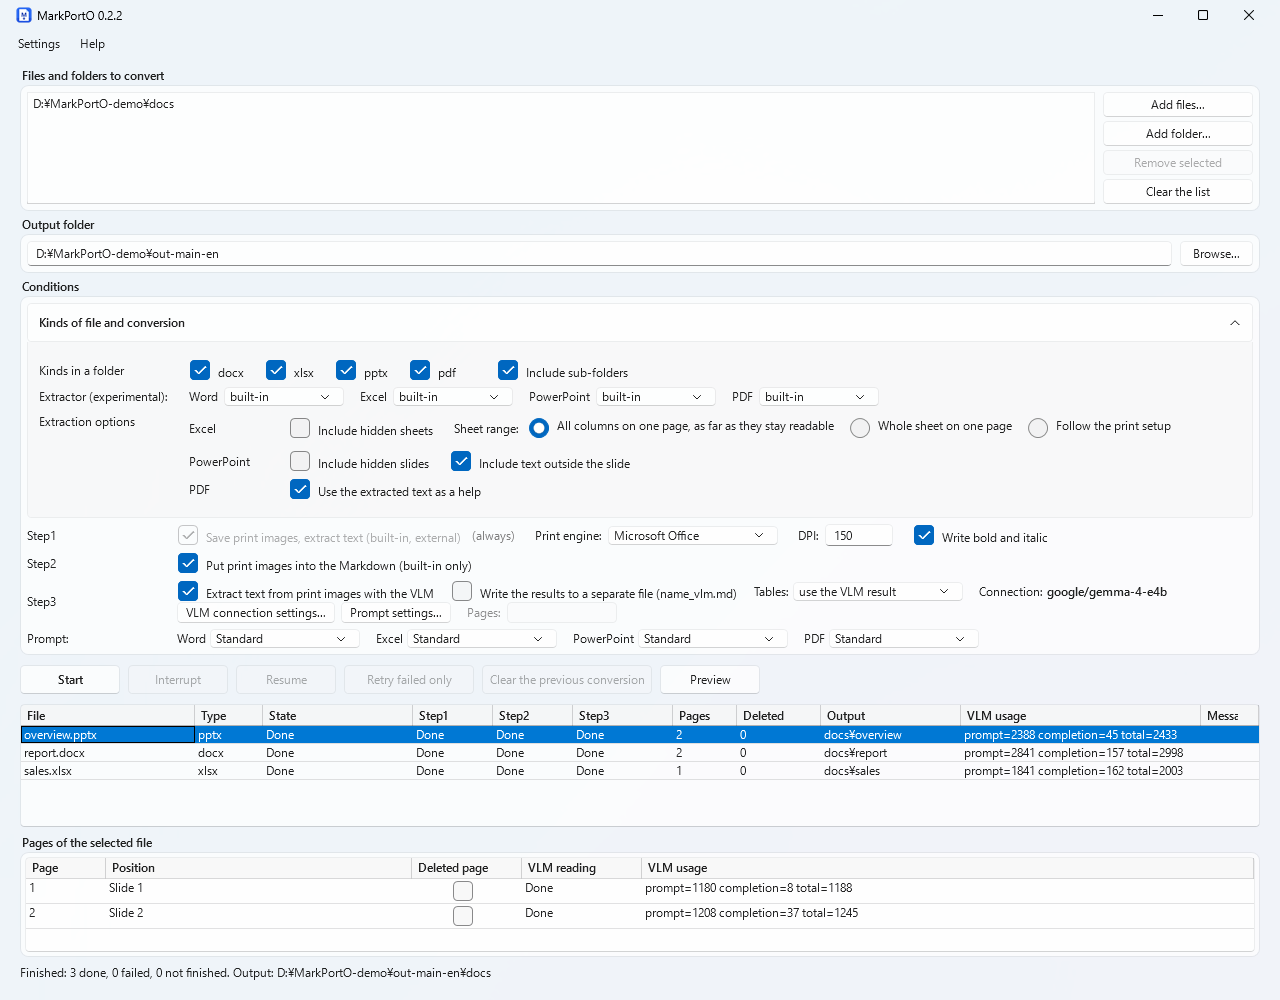
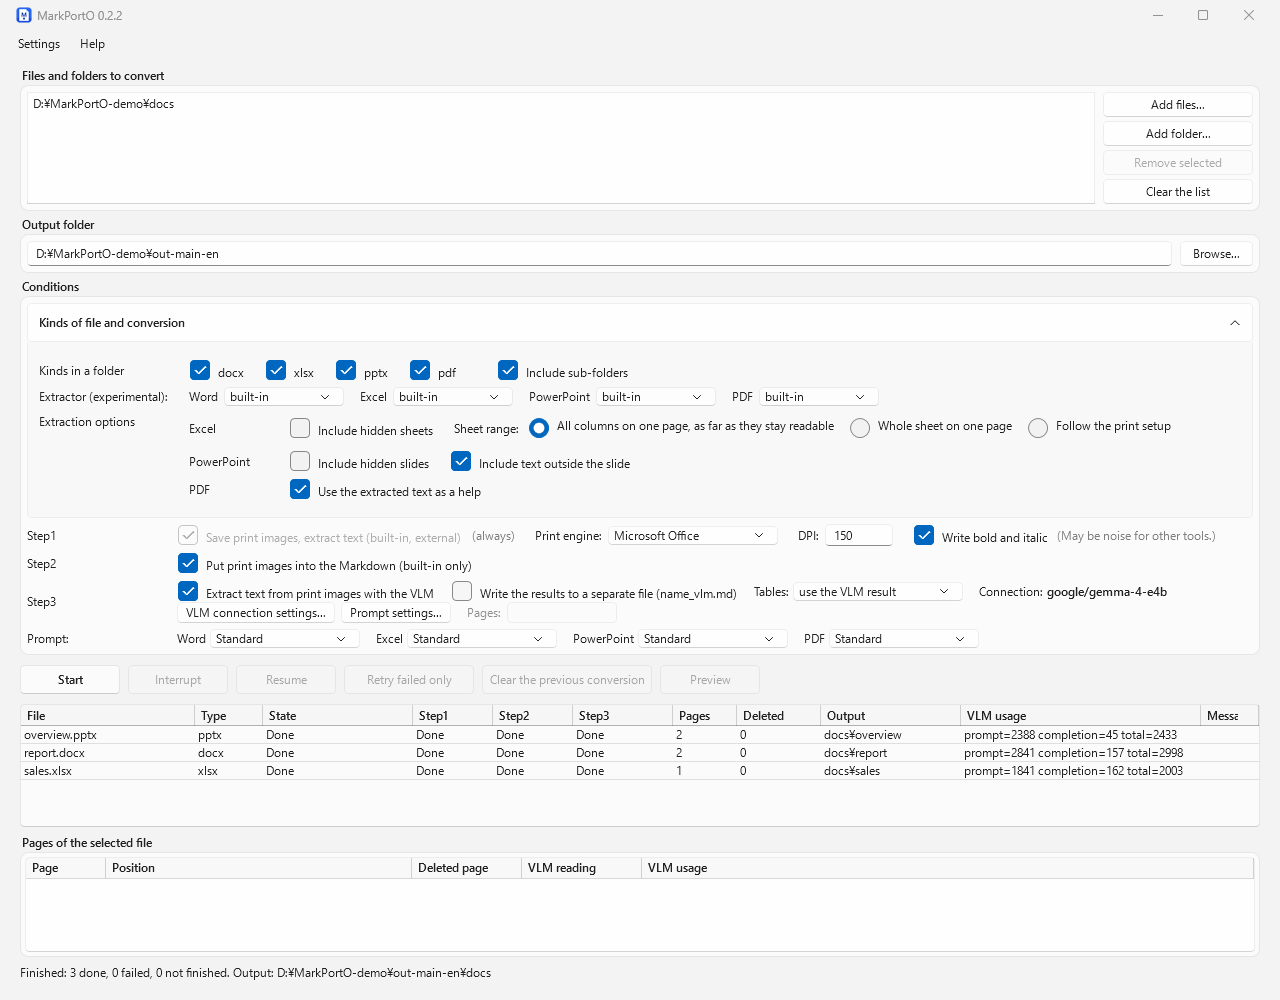
feat: a note beside "bold and italic" (the marks can be noise for other tools), and the same in its tip; the screenshots of the main window

diff --git a/src/MarkPortO.App/Resources/Strings.ja.xaml b/src/MarkPortO.App/Resources/Strings.ja.xaml
@@ -57,7 +57,8 @@
   <sys:String x:Key="Main_Cond_Fold">対象と変換</sys:String>
   <sys:String x:Key="Main_Cond_FoldTip">種類・サブフォルダ・変換エンジン・DPI などの条件を、たたんだり開いたりします。たたむと、いまの選択を1行で見せます。Step の行は、いつも見えます。</sys:String>
   <sys:String x:Key="Main_Cond_Emphasis">太字・斜体を書く</sys:String>
-  <sys:String x:Key="Main_Cond_EmphasisTip">文中の太字を ** で、斜体を * で囲んで書きます(Word・PowerPoint・Excel)。段落(セル)の全体が太字(斜体)のもの、見出し、スライドのタイトルには付けません。</sys:String>
+  <sys:String x:Key="Main_Cond_EmphasisNote">（他のツールで、ノイズになる場合があります）</sys:String>
+  <sys:String x:Key="Main_Cond_EmphasisTip">文中の太字を ** で、斜体を * で囲んで書きます(Word・PowerPoint・Excel)。段落(セル)の全体が太字(斜体)のもの、見出し、スライドのタイトルには付けません。知識グラフを作るツールなど、他のツールに Markdown を渡すときは、** や * がノイズになることがあります。</sys:String>
   <sys:String x:Key="Main_Cond_OffSlide">スライド外の文字を含める</sys:String>
   <sys:String x:Key="Main_Cond_OffSlideTip">PowerPoint: スライドの外に置いたシェイプ(メモ)の文字を、「Off-slide」の引用として書きます。スライドの画像には写りません。</sys:String>
   <sys:String x:Key="Main_Cond_Engine">印刷エンジン:</sys:String>

diff --git a/src/MarkPortO.App/Resources/Strings.en.xaml b/src/MarkPortO.App/Resources/Strings.en.xaml
@@ -57,7 +57,8 @@
   <sys:String x:Key="Main_Cond_Fold">Kinds of file and conversion</sys:String>
   <sys:String x:Key="Main_Cond_FoldTip">Fold or open the kinds of file, the sub-folders, the engine, the DPI and so on. Folded, one line shows what is chosen. The steps are always shown.</sys:String>
   <sys:String x:Key="Main_Cond_Emphasis">Write bold and italic</sys:String>
-  <sys:String x:Key="Main_Cond_EmphasisTip">Bold text in a line is written between ** and italic text between * (Word, PowerPoint, Excel). A paragraph (a cell) that is all in bold (italic), a heading and the title of a slide are not marked.</sys:String>
+  <sys:String x:Key="Main_Cond_EmphasisNote">(May be noise for other tools.)</sys:String>
+  <sys:String x:Key="Main_Cond_EmphasisTip">Bold text in a line is written between ** and italic text between * (Word, PowerPoint, Excel). A paragraph (a cell) that is all in bold (italic), a heading and the title of a slide are not marked. When the Markdown goes to other tools, such as one that builds a knowledge graph, the ** and * marks can be noise.</sys:String>
   <sys:String x:Key="Main_Cond_OffSlide">Include text outside the slide</sys:String>
   <sys:String x:Key="Main_Cond_OffSlideTip">PowerPoint: the text of the shapes that lie outside the slide (memos on the pasteboard) is written as a quote "Off-slide". They are not in the image of the slide.</sys:String>
   <sys:String x:Key="Main_Cond_Engine">Print engine:</sys:String>

diff --git a/src/MarkPortO.App/MainWindow.xaml b/src/MarkPortO.App/MainWindow.xaml
@@ -220,6 +220,7 @@
               <TextBlock Text="{DynamicResource Main_Cond_Dpi}" VerticalAlignment="Center" Margin="0,0,6,0" />
               <TextBox x:Name="DpiBox" Text="{Binding DpiText, UpdateSourceTrigger=LostFocus}" Width="68" VerticalContentAlignment="Center" Margin="0,0,20,0" />
               <CheckBox Content="{DynamicResource Main_Cond_Emphasis}" IsChecked="{Binding Emphasis}" ToolTip="{DynamicResource Main_Cond_EmphasisTip}" VerticalAlignment="Center" />
+              <TextBlock Text="{DynamicResource Main_Cond_EmphasisNote}" Foreground="{DynamicResource SubtleTextBrush}" VerticalAlignment="Center" Margin="8,0,0,0" />
             </StackPanel>
           </WrapPanel>
 
